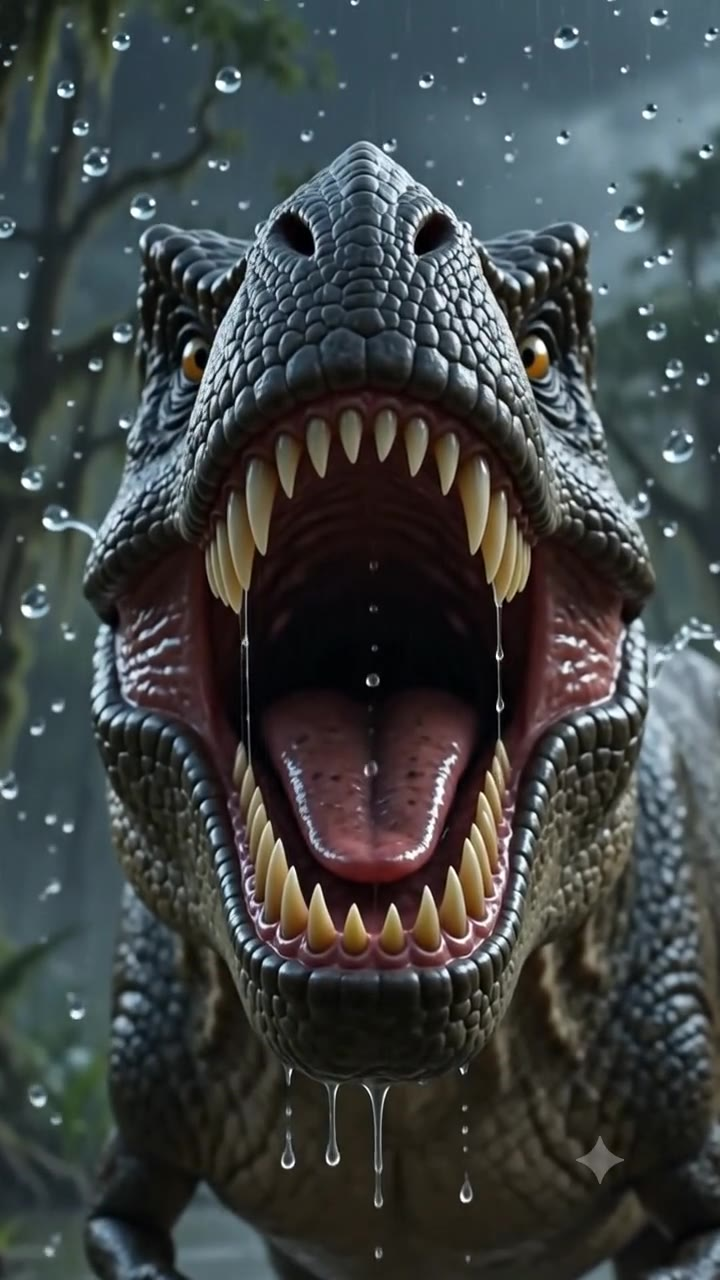
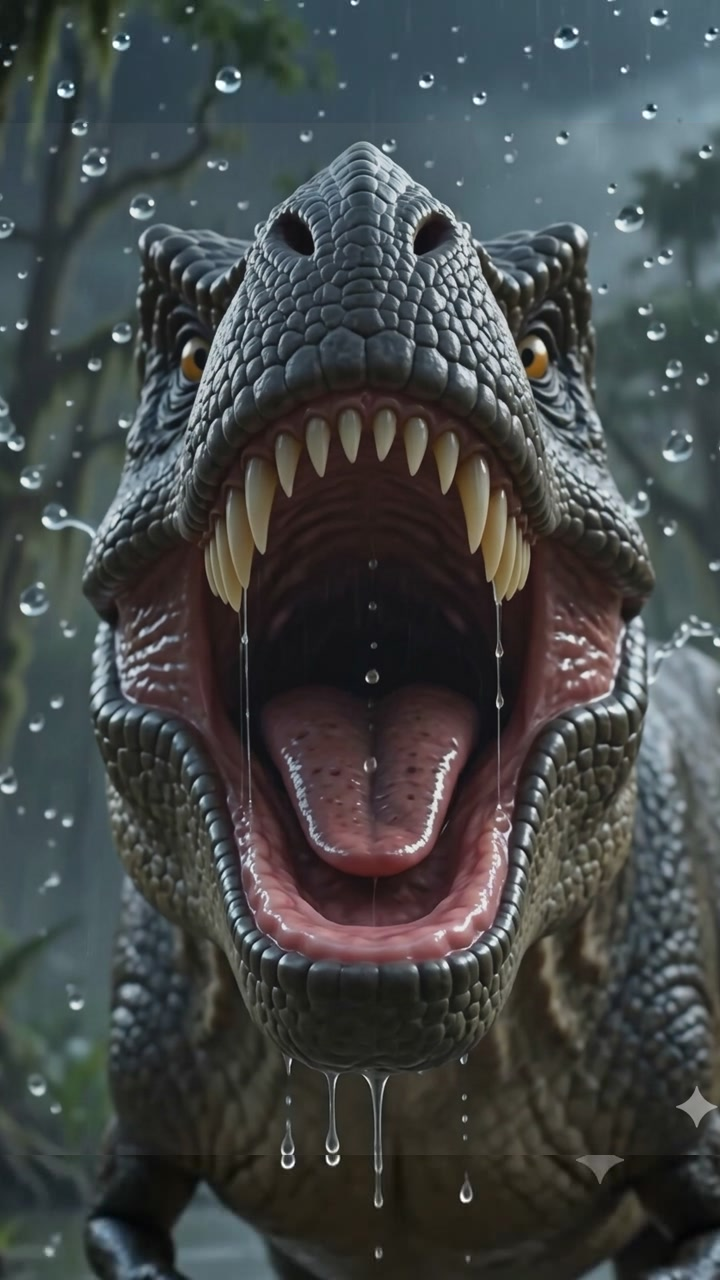
악어: 상어·공룡도 진짜 이빨 오브젝트로 (아랫니 지운 사진 적용)
받은 아랫니 지운 사진(896×1200)을 무대 좌표계(720×1280)에 정합시켜 교체하고,
악어와 같은 emptyGums 방식으로 바꾼다 — 사진 위 마커가 아니라 진짜 이빨이
잇몸에 박혀 있고, 누르면 잇몸 속으로 사라진다.

- 정합: 회색조로 스케일·오프셋을 탐색해 기존 무대 사진과 맞춤
  (상어 ×1.030, 공룡 ×0.860). 새 사진이 원본보다 시야가 좁아 남는
  가장자리는 기존 사진을 바탕에 깔아 메웠다 — 인트로 영상 마지막 컷과
  게임 배경이 그대로 겹쳐야 페이드가 안 튀기 때문
- 잇몸 곡선을 새 사진에서 다시 실측. 양옆 입 안쪽까지 올라가는 U 를
  제대로 잡아 이빨 간격이 넓어졌다 (8개 기준 상어 38→42~49px, 공룡 32→42~49px)
- 이빨 모양을 캐릭터별로: 악어 conic · 상어 triangle · 공룡 banana
  (photo stage 가 'conic' 으로 고정돼 있던 것을 style 설정으로 뺐다)
- 관리자 페이지에서도 style 을 저장할 수 있게 검증 추가

세 캐릭터 모두 실제 판을 돌려 확인: 상어는 눌러도 '남은 15개'가 유지되고
(이빨 재생), 공룡은 누른 자리에 뜨겁다/차갑다 표식이 쌓인다. JS 오류 없음.

Claude-Session: https://claude.ai/code/session_01UJwqYzMMGYRXB3YFK3Gp7D

diff --git a/apps/crocodile/public/croc-client.js b/apps/crocodile/public/croc-client.js
@@ -411,9 +411,9 @@
   //   (없으면 사진의 실제 이빨 위에 마커만 얹는 방식)
   //   아래 값은 서버(/api/croc/stage)를 못 읽었을 때 쓰는 기본값이다.
   const PHOTO = {
-    crocodile: { src: '/crocodile/stage/crocodile.jpg', arch: [[218, 830], [296, 943], [374, 978], [451, 937], [528, 818]], toothH: 60, toothW: 0.42, tilt: 0, jitter: 12, maxTilt: 30, zoom: 1.62, emptyGums: true },
-    shark:     { src: '/crocodile/stage/shark.jpg',     arch: [[227, 785], [287, 828], [370, 843], [455, 828], [513, 785]], toothH: 58, toothW: 0.62, tilt: 0, jitter: 10, maxTilt: 30, zoom: 1.5 },
-    dino:      { src: '/crocodile/stage/dino.jpg',      arch: [[250, 890], [300, 933], [370, 953], [440, 941], [490, 890]], toothH: 72, toothW: 0.72, tilt: 0, jitter: 10, maxTilt: 30, zoom: 1.5 },
+    crocodile: { src: '/crocodile/stage/crocodile.jpg', arch: [[218, 830], [296, 943], [374, 978], [451, 937], [528, 818]], toothH: 60, toothW: 0.42, tilt: 0, jitter: 12, maxTilt: 30, zoom: 1.62, style: 'conic', emptyGums: true },
+    shark:     { src: '/crocodile/stage/shark.jpg',     arch: [[220, 765], [280, 805], [360, 833], [445, 822], [538, 755]], toothH: 52, toothW: 0.72, tilt: 0, jitter: 12, maxTilt: 30, zoom: 1.5, style: 'triangle', emptyGums: true },
+    dino:      { src: '/crocodile/stage/dino.jpg',      arch: [[238, 843], [287, 927], [363, 945], [443, 933], [505, 850]], toothH: 62, toothW: 0.62, tilt: 0, jitter: 10, maxTilt: 30, zoom: 1.5, style: 'banana', emptyGums: true },
   };
   const PW = 720, PH = 1280; // 사진 좌표계
 
@@ -480,7 +480,7 @@
         inner.appendChild(svgEl('ellipse', { cx: 0, cy: -2, rx: w * 0.56, ry: 7, fill: 'rgba(60,20,26,.7)' }));
         // 이빨 본체
         inner.appendChild(svgEl('path', {
-          d: toothPath(w, h, false, 'conic'),
+          d: toothPath(w, h, false, cfg.style || 'conic'),
           fill: 'url(#pTooth)', stroke: 'rgba(86,66,44,.5)', 'stroke-width': 1.4,
         }));
         // 왼쪽 하이라이트 + 오른쪽 음영 (입체감)

diff --git a/apps/crocodile/stage-config.js b/apps/crocodile/stage-config.js
@@ -15,15 +15,18 @@ const DATA_FILE = path.join(__dirname, '..', '..', 'data', 'croc-stage.json');
 const DEFAULTS = {
   crocodile: {
     arch: [[218, 830], [296, 943], [374, 978], [451, 937], [528, 818]],
-    toothH: 60, toothW: 0.42, tilt: 0, jitter: 12, maxTilt: 30, zoom: 1.62, emptyGums: true,
+    toothH: 60, toothW: 0.42, tilt: 0, jitter: 12, maxTilt: 30, zoom: 1.62,
+    style: 'conic', emptyGums: true,
   },
   shark: {
-    arch: [[227, 785], [287, 828], [370, 843], [455, 828], [513, 785]],
-    toothH: 58, toothW: 0.62, tilt: 0, jitter: 10, maxTilt: 30, zoom: 1.5, emptyGums: false,
+    arch: [[220, 765], [280, 805], [360, 833], [445, 822], [538, 755]],
+    toothH: 52, toothW: 0.72, tilt: 0, jitter: 12, maxTilt: 30, zoom: 1.5,
+    style: 'triangle', emptyGums: true,
   },
   dino: {
-    arch: [[250, 890], [300, 933], [370, 953], [440, 941], [490, 890]],
-    toothH: 72, toothW: 0.72, tilt: 0, jitter: 10, maxTilt: 30, zoom: 1.5, emptyGums: false,
+    arch: [[238, 843], [287, 927], [363, 945], [443, 933], [505, 850]],
+    toothH: 62, toothW: 0.62, tilt: 0, jitter: 10, maxTilt: 30, zoom: 1.5,
+    style: 'banana', emptyGums: true,
   },
 };
 
@@ -64,6 +67,7 @@ class StageStore {
       if (patch.jitter !== undefined) cur.jitter = num(patch.jitter, 0, 45, '삐뚤빼뚤', true);
       if (patch.maxTilt !== undefined) cur.maxTilt = num(patch.maxTilt, 0, 90, '최대 기울기');
       if (patch.zoom !== undefined) cur.zoom = num(patch.zoom, 1, 3, '확대', true);
+      if (patch.style !== undefined) cur.style = ['conic', 'triangle', 'banana'].includes(patch.style) ? patch.style : cur.style;
       if (patch.emptyGums !== undefined) cur.emptyGums = !!patch.emptyGums;
     } catch (e) {
       return { ok: false, error: e.message };
